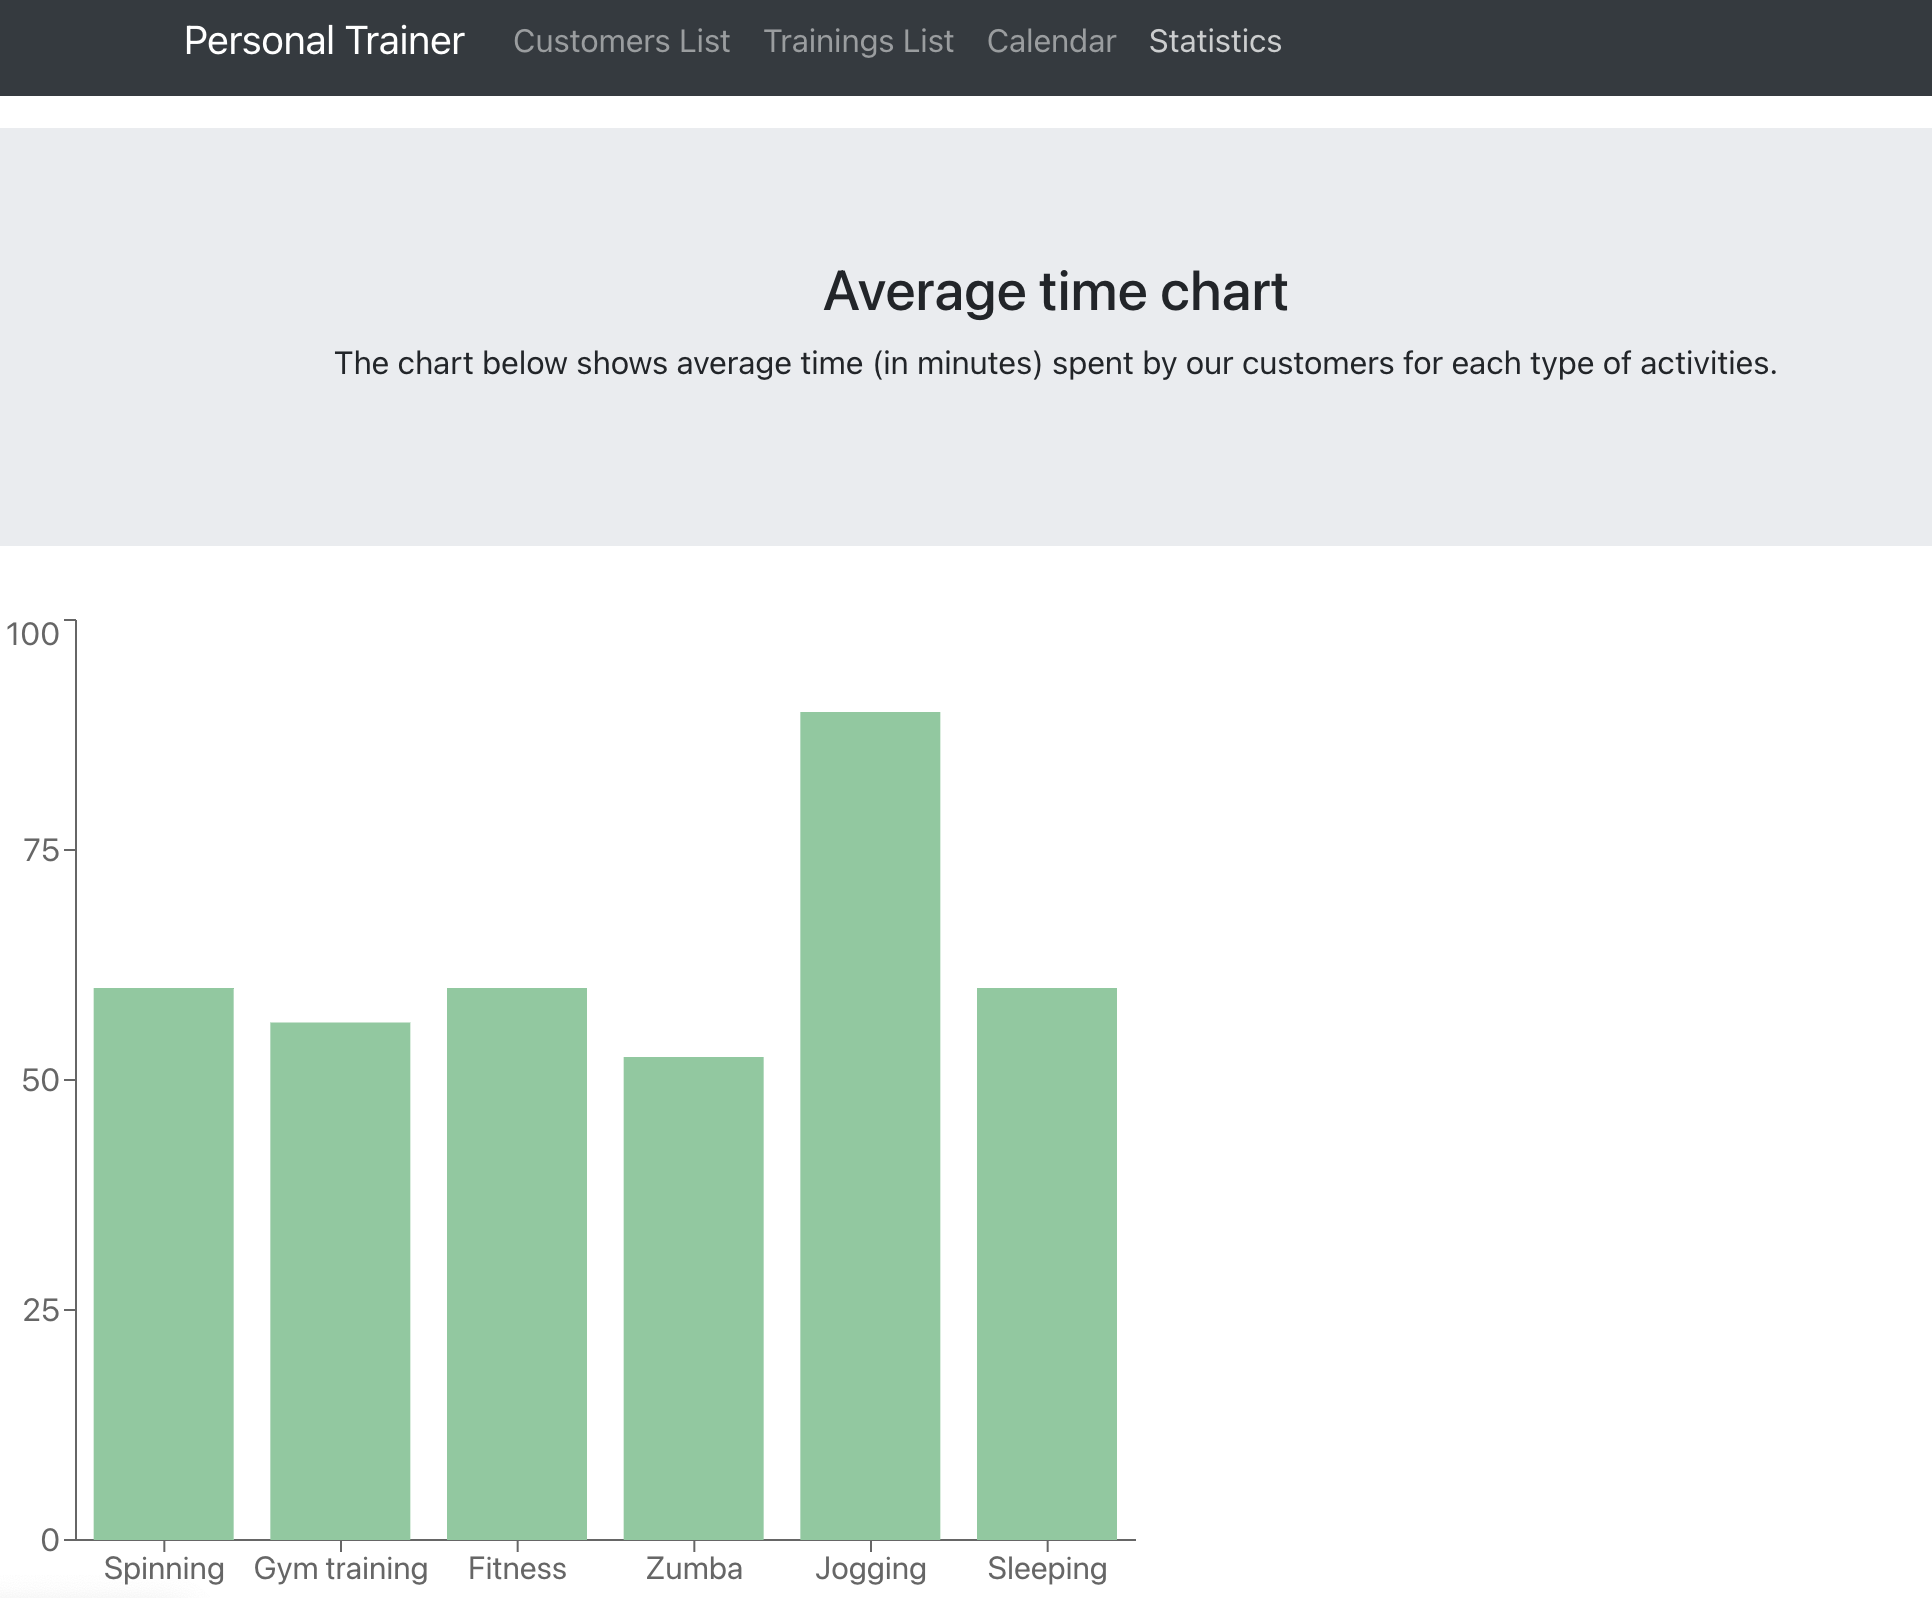
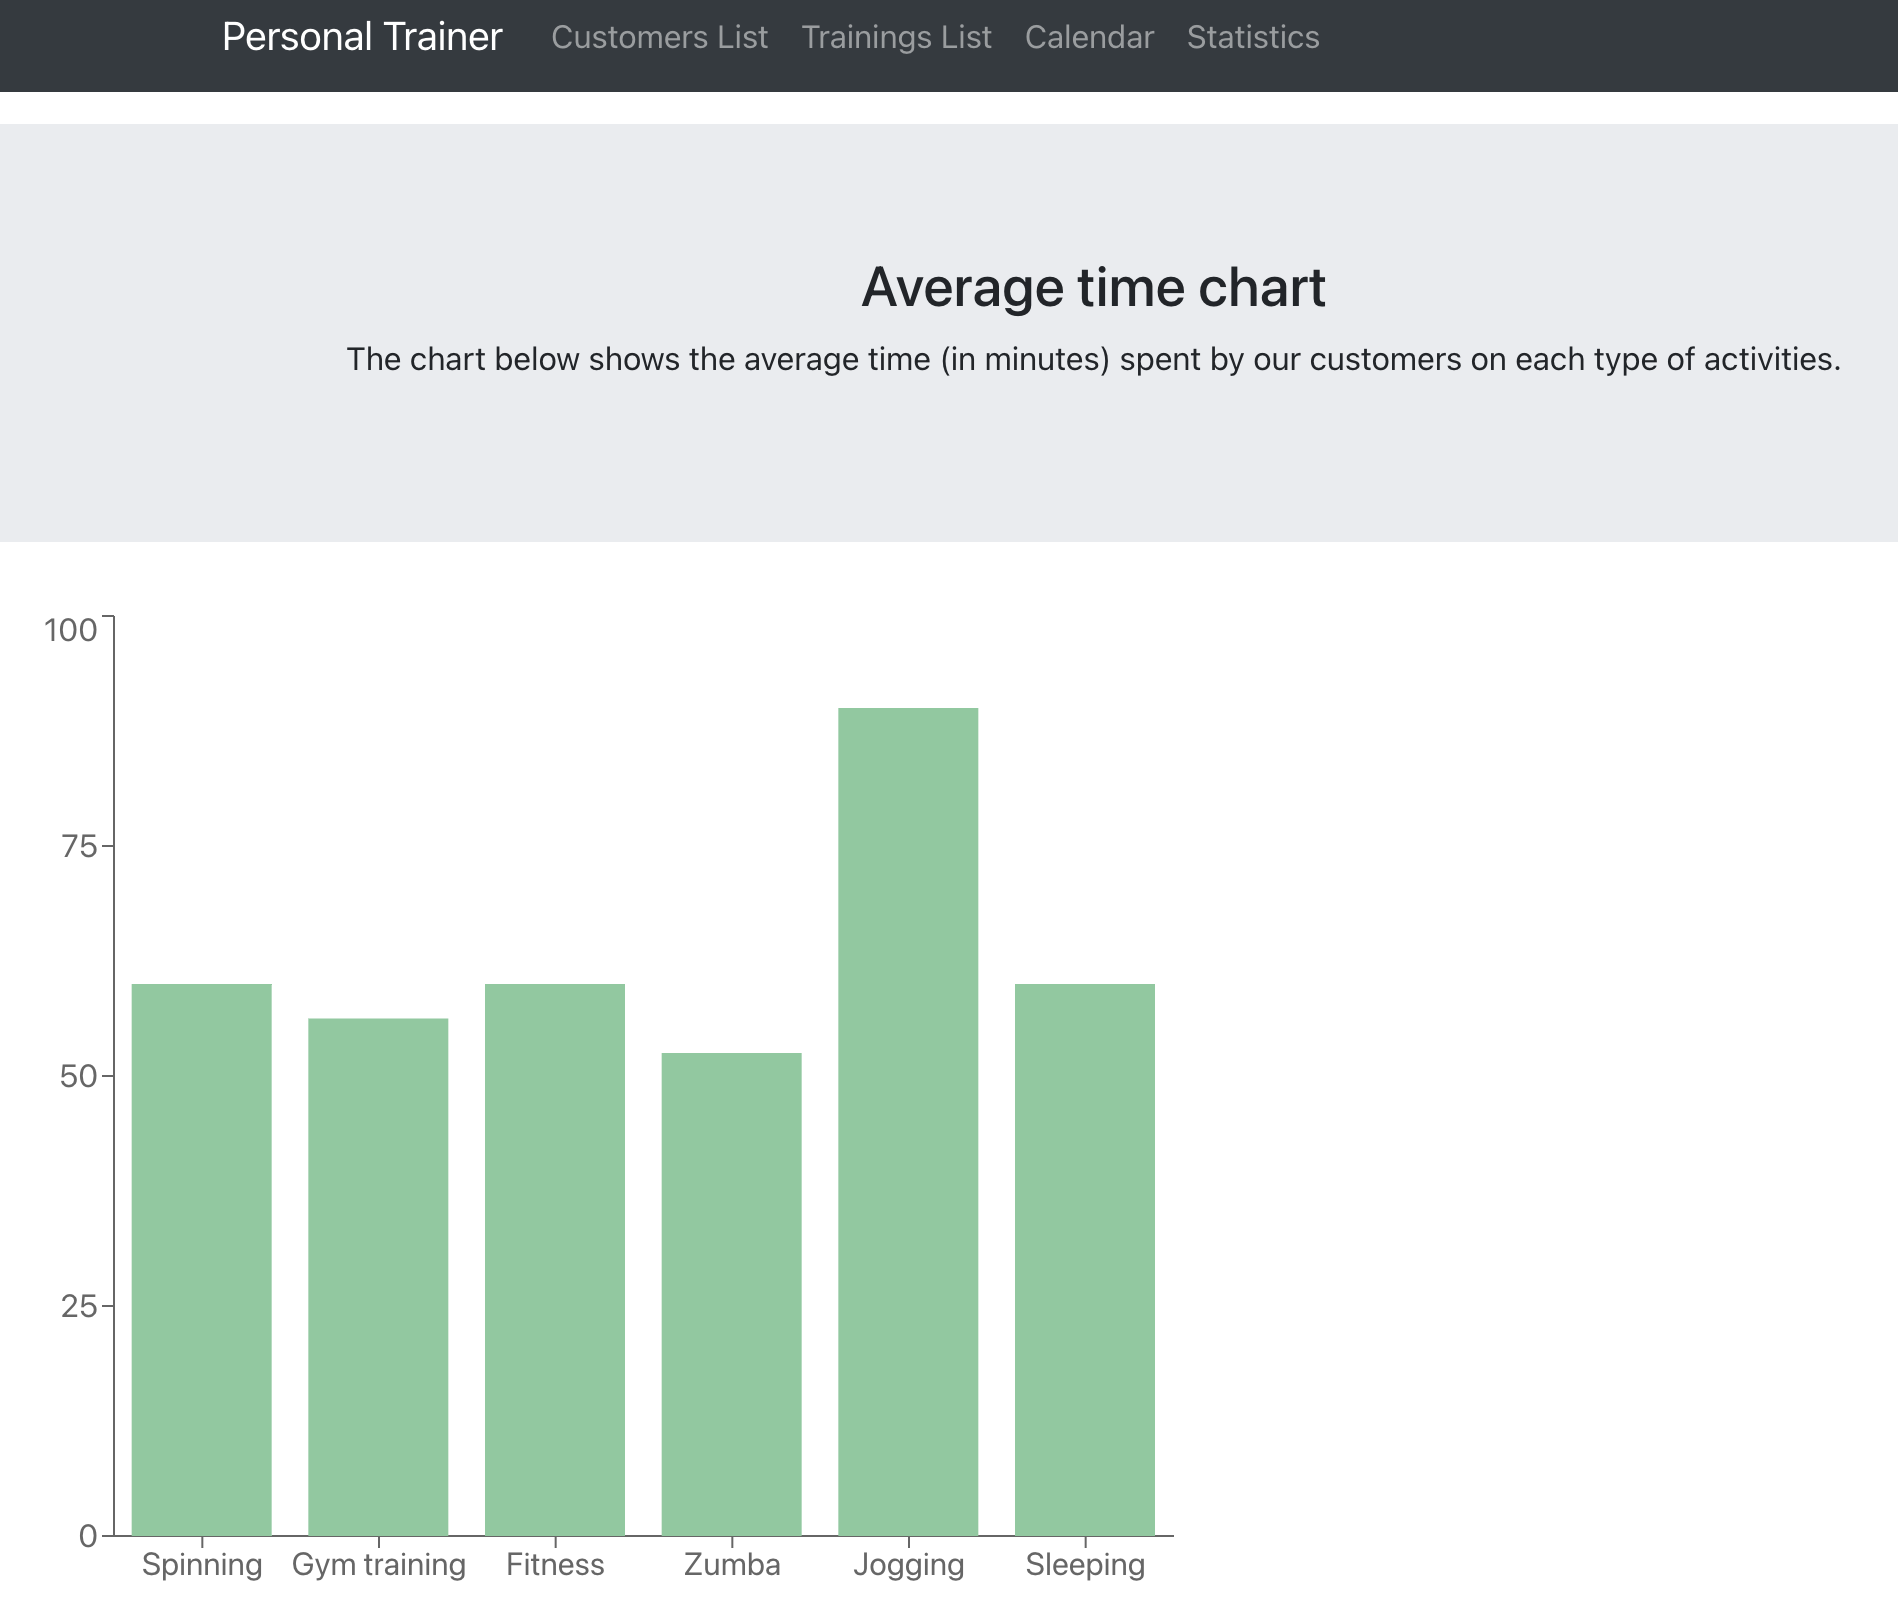
text and screenshot updated (statistics)

diff --git a/src/components/other/Stat.js b/src/components/other/Stat.js
@@ -42,8 +42,8 @@ const Stat = (props) => {
       <Jumbotron>
         <Container>
           <h3> Average time chart </h3>
-          <p> The chart below shows average time (in minutes) spent by our
-            customers for each type of activities. </p>
+          <p> The chart below shows the average time (in minutes)
+            spent by our customers on each type of activities. </p>
         </Container>
       </Jumbotron>
       <BarChart

diff --git a/README.md b/README.md
@@ -13,7 +13,7 @@ Personal Trainer company needs front end app for their customer database. Databa
 ##### 22.3.2021
 
 Statistics added:
-![Screenshot](screenshots/upd22.3/1.StatisticsView22.3.png)
+![Screenshot](screenshots/upd22.3/1.StatisticsView22.3.pnG)
 
 
 ##### 16.3.2021
